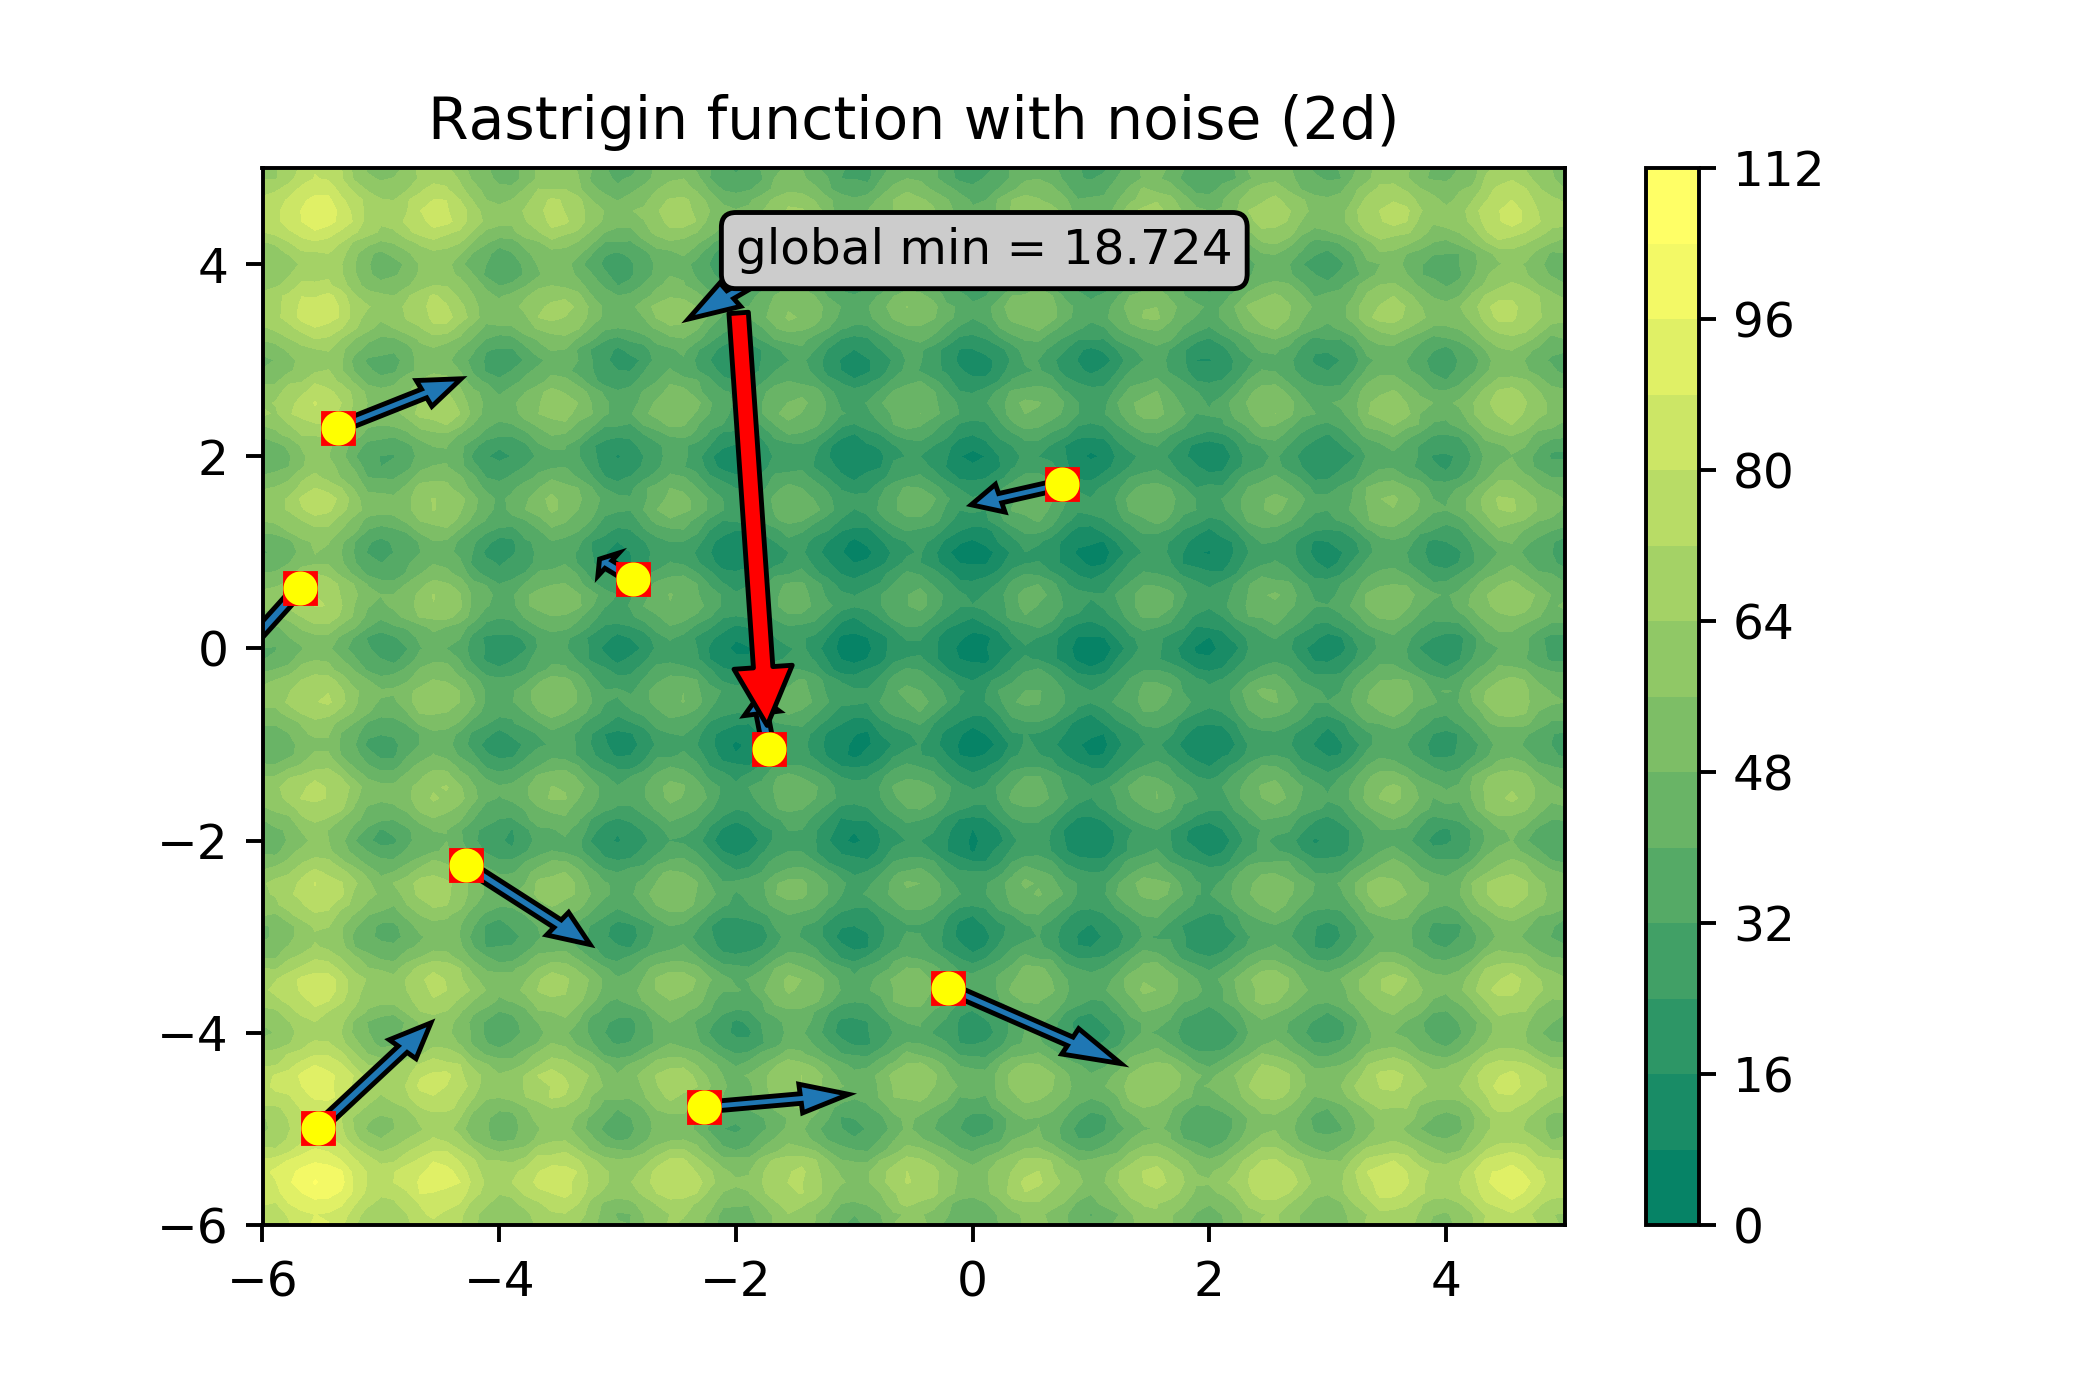
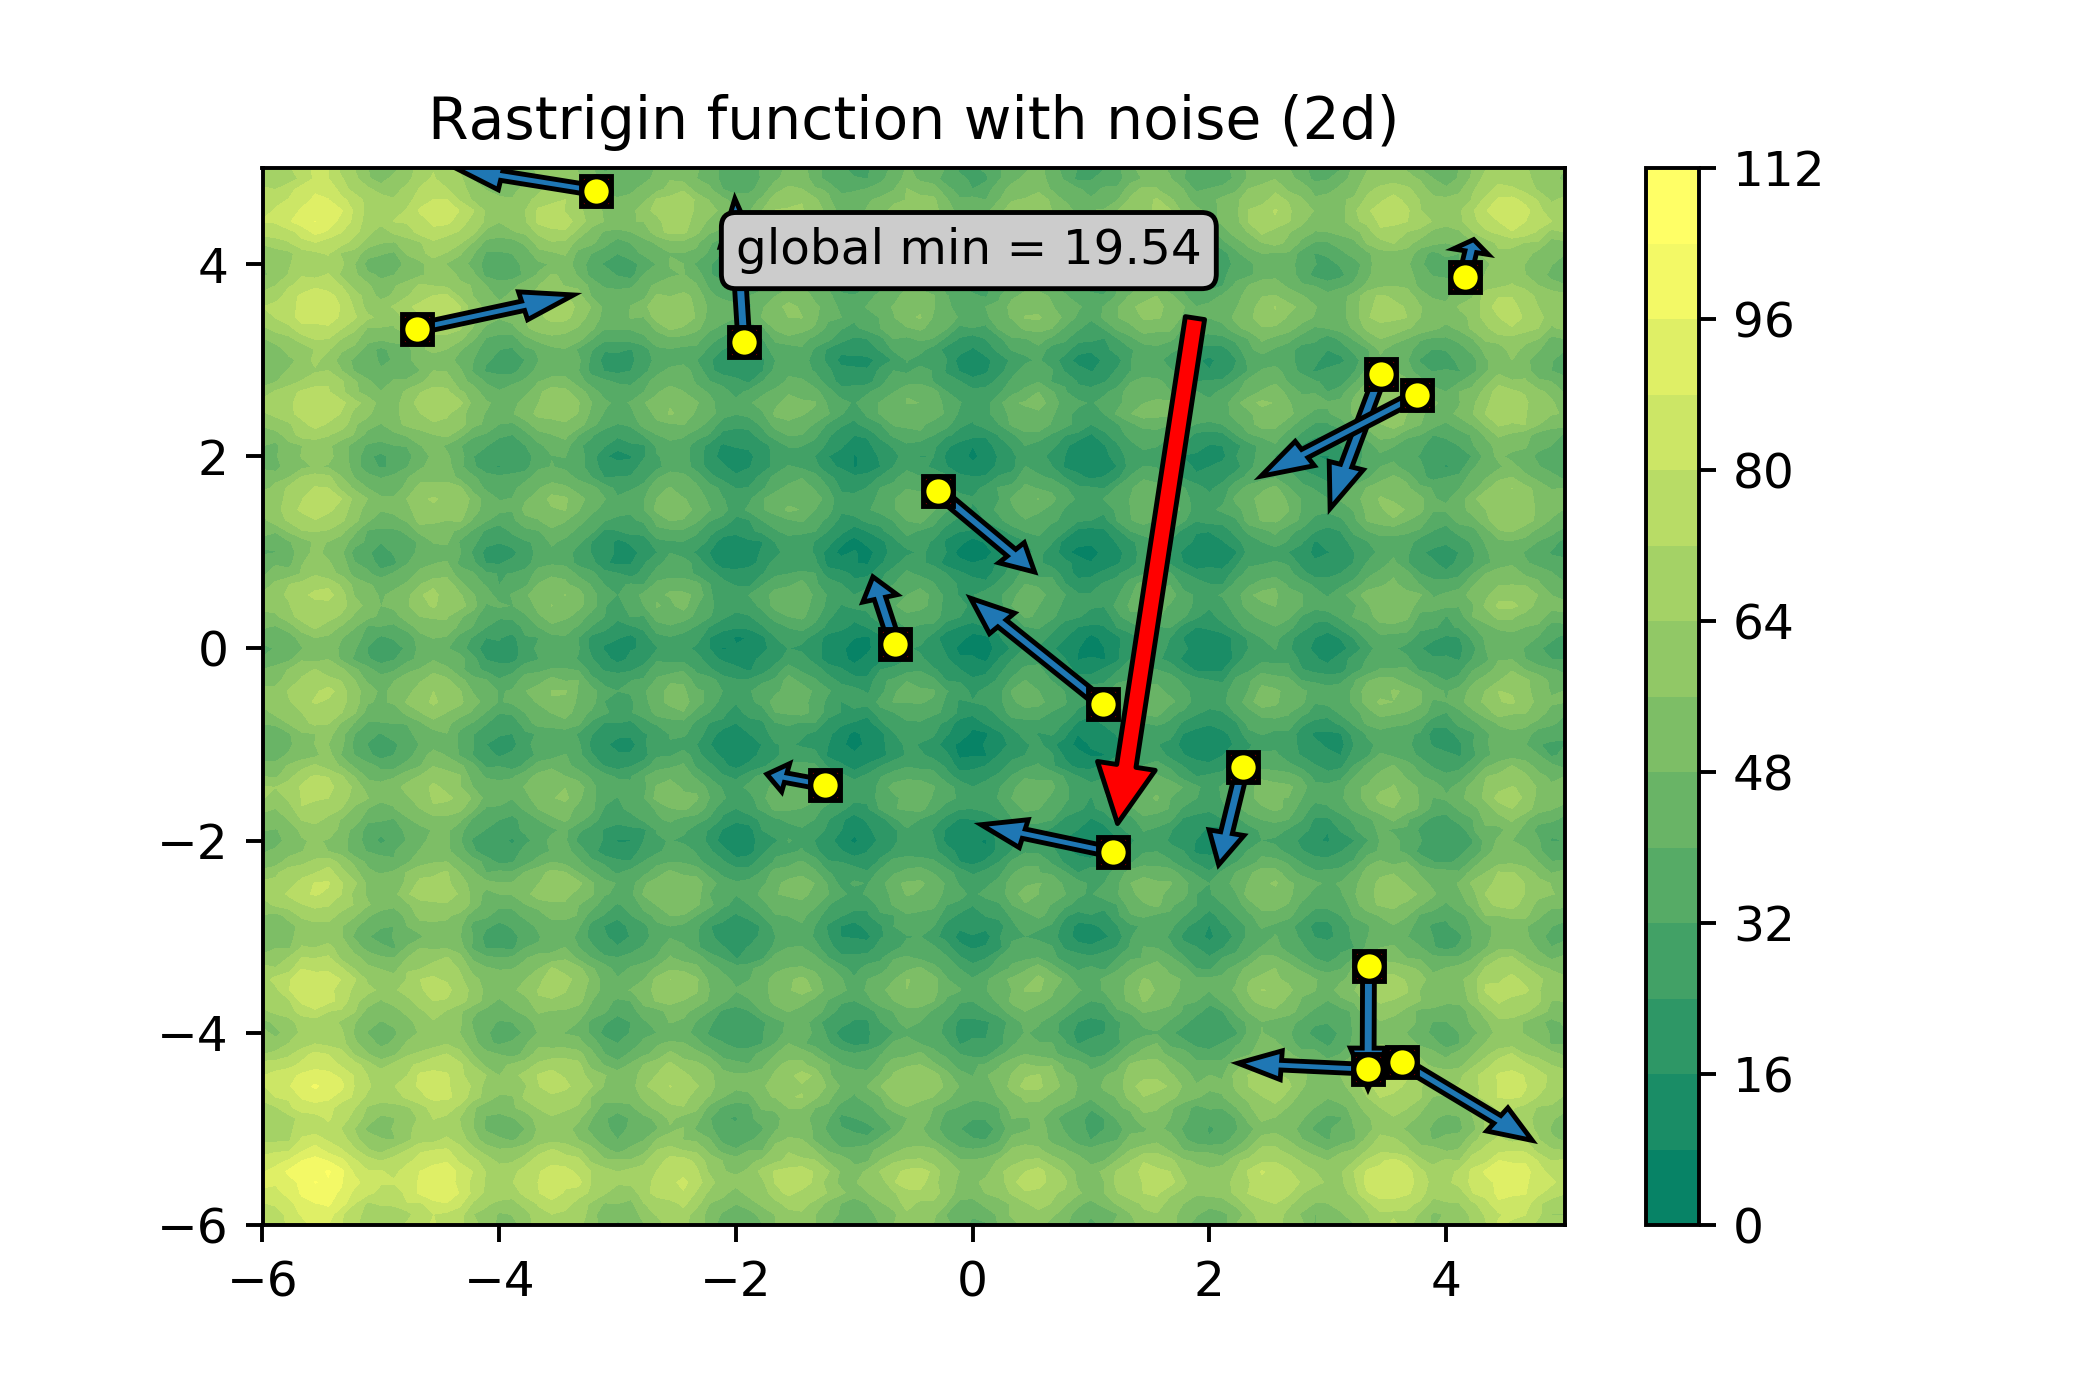
2d

diff --git a/Animate2.py b/Animate2.py
@@ -67,9 +67,9 @@ def plot2d(func = TestFunctions.Rastrigin, begin = -5, end = 5, count = 15, titl
     
     
     
-    arrow_width = 0.1
-    arrow_length = 4
-    xytext = (-2, 4)  #(0, -60)
+    arrow_width = 2
+    arrow_length = 8
+    xytext = (-40, 75) #(-2, 4)  
     
     
     
@@ -80,14 +80,16 @@ def plot2d(func = TestFunctions.Rastrigin, begin = -5, end = 5, count = 15, titl
     
     bees = Bees(np.random.uniform(begin,end,(count,2)), width = 3)
     
+    #bees = Bees.get_Bees_from_randomputs(count, RandomPuts.Normal(0, 1.5, 2), 2)
+    
     now = bees.x
     best = bees.bests
     
     figure, axes = plt.subplots()
     base_plot()
     
-    axes.plot(best[:,0], best[:,1], 'bs', color = 'red')
-    axes.plot(now[:,0], now[:,1], 'ro', color = 'yellow')  
+    axes.plot(best[:,0], best[:,1], 'bs', color = 'red', markeredgecolor = "black")
+    axes.plot(now[:,0], now[:,1], 'ro', color = 'yellow', markeredgecolor = "black")  
     
     base_save(1)
     
@@ -102,8 +104,8 @@ def plot2d(func = TestFunctions.Rastrigin, begin = -5, end = 5, count = 15, titl
     figure, axes = plt.subplots()
     base_plot()
    
-    axes.plot(best[:,0], best[:,1], 'bs', color = 'red')
-    axes.plot(now[:,0], now[:,1], 'ro', color = 'yellow') 
+    axes.plot(best[:,0], best[:,1], 'bs', color = 'red', markeredgecolor = "black")
+    axes.plot(now[:,0], now[:,1], 'ro', color = 'yellow', markeredgecolor = "black") 
     
     # plt.plot(best, val(best), 'bs', color = 'red', label = 'best bee positions')
     # plt.plot(now, val(now), 'ro', color = 'green', label = 'current bee positions')
@@ -127,7 +129,7 @@ def plot2d(func = TestFunctions.Rastrigin, begin = -5, end = 5, count = 15, titl
     base_save(2)
     
     
-    for i in range(2,15):
+    for i in range(2,20):
         
         hive.best_val, hive.best_pos = hive.bees.make_step(0.3, 2, 5, hive.best_pos, hive.best_val)
         
@@ -151,8 +153,8 @@ def plot2d(func = TestFunctions.Rastrigin, begin = -5, end = 5, count = 15, titl
             
     #     plt.plot(best, val(best), 'bs', color = 'red', label = 'best bee positions')
     #     plt.plot(now, val(now), 'ro', color = 'green', label = 'current bee positions')
-        axes.plot(best[:,0], best[:,1], 'bs', color = 'red')
-        axes.plot(now[:,0], now[:,1], 'ro', color = 'yellow') 
+        axes.plot(best[:,0], best[:,1], 'bs', color = 'red', markeredgecolor = "black")
+        axes.plot(now[:,0], now[:,1], 'ro', color = 'yellow', markeredgecolor = "black") 
         
         for p, v in zip(now,v):
             axes.arrow(p[0], p[1], v[0], v[1] , width = arrow_width, length_includes_head = True,
@@ -165,24 +167,24 @@ def plot2d(func = TestFunctions.Rastrigin, begin = -5, end = 5, count = 15, titl
     
     
 
-tit = "Rastrigin function with noise (2d)"
+tit = "Shvel function with noise (2d)"
 
-#plot1d(TestFunctions.Shvel, -90,100, count = 8, title = tit)
+#plot2d(TestFunctions.Shvel, -90,100, count = 15, title = tit)
 
-#plot1d(lambda arr: TestFunctions.Shvel(arr)+random.uniform(0,4), -90,100, count = 8, title = tit)
+plot2d(lambda arr: TestFunctions.Shvel(arr)+random.uniform(0,10), -90,100, count = 15, title = tit)
 
-#plot1d(TestFunctions.Rastrigin, -6,7, count = 8, title = tit)
+#plot2d(TestFunctions.Rastrigin, -6,5, count = 15, title = tit)
 
-plot2d(lambda arr: TestFunctions.Rastrigin(arr)+random.uniform(0,5), -6,5, count = 10, title = tit)
+#plot2d(lambda arr: TestFunctions.Rastrigin(arr)+random.uniform(0,7), -6,5, count = 15, title = tit)
 
 
-# import imageio
-# images = []
-# filenames = [os.path.join(route, f'{tit}_{i}.png') for i in range(15)]
-# for filename in filenames:
-#     images.append(imageio.imread(filename))
+import imageio
+images = []
+filenames = [os.path.join(route, f'{tit}_{i}.png') for i in range(20)]
+for filename in filenames:
+    images.append(imageio.imread(filename))
     
-# imageio.mimsave(os.path.join(route,f'{tit}_movie.gif'), images, duration = 0.4)
+imageio.mimsave(os.path.join(route,f'{tit}_movie.gif'), images, duration = 0.4)
 
 
 
